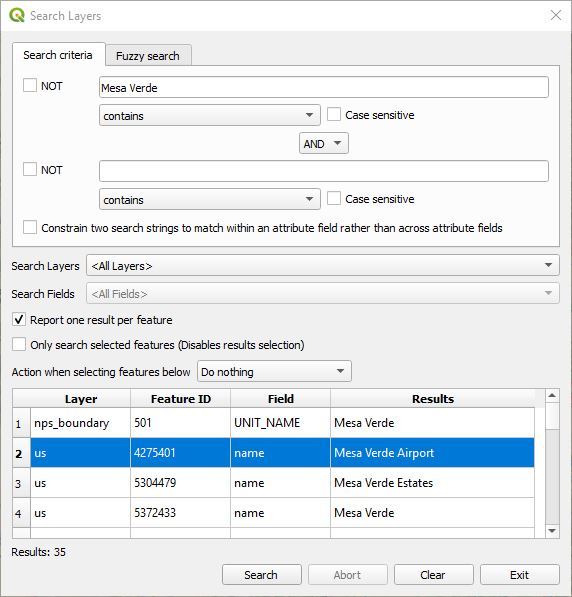
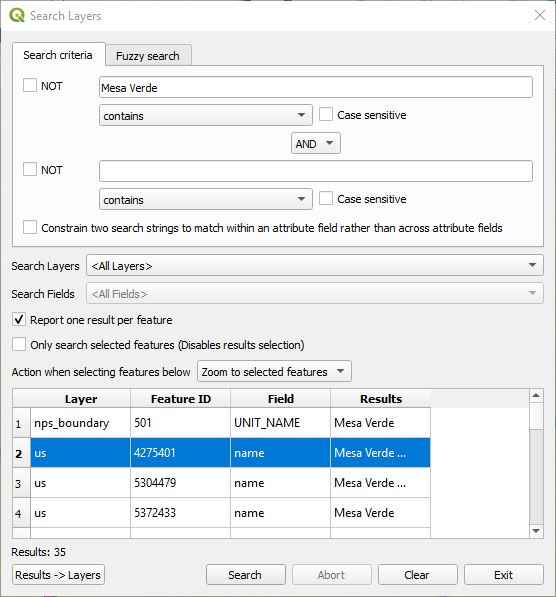
Add export button for search results

diff --git a/index.html b/index.html
@@ -54,6 +54,7 @@ code {
 <p>It is possible that a search string could match the contents in one or more attribute fields. By checking <strong>Report one result per feature</strong>, only the first match per feature will be reported.</p>
 <p>When two search strings are used checking <strong>Constrain two search strings to match within an attribute field rather than across attribute fields</strong> will constrain the search criteria to match within an attribute field; otherwise, one string may match one attribute field and the other string may match another attribute field. The results are either <strong>AND</strong>ed or <strong>OR</strong>ed together. Here is an axample of a two string search.</p>
 <p>If <strong>Only search selected features</strong> is checked, the features that are selected in QGIS will be the only ones searched. This is one way to limit a search to a particular area. Note that with this checked, the normal interaction of clicking on a found feature in the list will not select the feature for obvious reasons; however, the zoom or pan to actions will still apply.</p>
+<p>If search results are found, then the <strong>"Results -&gt; Layers"</strong> button will be enabled. Clicking on this button will export all the found results into new virtual layers. It is advised to install the <strong><em>Memory Saver Plugin</em></strong> to prevent these layers from disappearing after closing the project.</p>
 <p><img alt="Search Layers Dialog" src="doc/layersearch2.jpg" /></p>
 <p>Click  the <strong>Search</strong> button to begin the search. In the case of a large data set, clicking on <strong>Abort</strong> will halt the process. Note that the plugin stops after finding 1500 matches.</p>
 <p>When matches are found and clicked on the feature(s) will be highlighted. You can you Shift-&gt;Click to highlight a range of features, Ctrl-&gt;Click to toggle whether a feature is highlighted or not. The drop down menu <strong>Action when selecting features below</strong> controls one of the following motion actions. </p>

diff --git a/searchDialog.py b/searchDialog.py
@@ -1,11 +1,12 @@
 import os
 import re
+import time
 
 from qgis.PyQt.uic import loadUiType
 from qgis.PyQt.QtWidgets import QDialog, QAbstractItemView, QTableWidget, QTableWidgetItem
 from qgis.PyQt.QtCore import Qt, QThread
 
-from qgis.core import QgsVectorLayer, Qgis, QgsProject, QgsMapLayer
+from qgis.core import QgsVectorLayer, Qgis, QgsProject, QgsWkbTypes, QgsMapLayer, QgsFields
 from .searchWorker import Worker
 from .fuzzyWorker import FuzzyWorker
 
@@ -29,6 +30,7 @@ class LayerSearchDialog(QDialog, FORM_CLASS):
         self.stopButton.clicked.connect(self.killWorker)
         self.searchButton.clicked.connect(self.runSearch)
         self.clearButton.clicked.connect(self.clearResults)
+        self.results2LayersButton.clicked.connect(self.exportResults)
         self.layerListComboBox.activated.connect(self.layerSelected)
         self.searchFieldComboBox.addItems(['<All Fields>'])
         self.maxResults = 1500
@@ -38,7 +40,11 @@ class LayerSearchDialog(QDialog, FORM_CLASS):
         self.resultsTable.setHorizontalHeaderLabels(['Layer','Feature ID','Field','Search Results'])
         self.resultsTable.setSelectionBehavior(QAbstractItemView.SelectRows)
         self.resultsTable.itemSelectionChanged.connect(self.select_feature)
+        self.results = []
+        self.ignore_clear = False
         self.worker = None
+        self.time_start = 0
+        self.last_search_str = ''
 
     def closeDialog(self):
         '''Close the dialog box when the Close button is pushed'''
@@ -49,7 +55,7 @@ class LayerSearchDialog(QDialog, FORM_CLASS):
         It forces the dialog to reload.'''
         # Stop any existing search
         self.killWorker()
-        if self.isVisible():
+        if self.isVisible() or len(self.results) != 0:
             self.populateLayerListComboBox()
             self.clearResults()
 
@@ -178,6 +184,7 @@ class LayerSearchDialog(QDialog, FORM_CLASS):
         self.stopButton.setEnabled(True)
         self.doneButton.setEnabled(False)
         self.clearButton.setEnabled(False)
+        self.results2LayersButton.setEnabled(False)
         self.resultsLabel.setText('')
         infield = self.searchFieldComboBox.currentIndex() >= 1
         if infield is True:
@@ -187,6 +194,7 @@ class LayerSearchDialog(QDialog, FORM_CLASS):
         
         # Because this could take a lot of time, set up a separate thread
         # for a worker function to do the searching.
+        self.time_start = time.perf_counter()
         thread = QThread()
         if selected_tab == 0:
             # Get parameters for regular search
@@ -201,6 +209,7 @@ class LayerSearchDialog(QDialog, FORM_CLASS):
             
             try:
                 sstr = self.findStringEdit.text()
+                self.last_search_str = sstr
                 sstr2 = self.findString2Edit.text()
             except:
                 self.showErrorMessage('Invalid Search String')
@@ -250,17 +259,22 @@ class LayerSearchDialog(QDialog, FORM_CLASS):
         self.thread.wait()
         self.thread.deleteLater()
         self.worker = None
-        self.resultsLabel.setText('Results: '+str(self.found))
+        total_time = time.perf_counter() - self.time_start
+        self.resultsLabel.setText('Results: {} in {:.1f}s'.format(self.found, total_time))
 
         self.vlayers = []
         self.searchButton.setEnabled(True)
         self.clearButton.setEnabled(True)
         self.stopButton.setEnabled(False)
         self.doneButton.setEnabled(True)
+        if len(self.results):
+            self.results2LayersButton.setEnabled(True)
+        else:
+            self.results2LayersButton.setEnabled(False)
     
     def workerError(self, exception_string):
         '''An error occurred so display it.'''
-        #self.showErrorMessage(exception_string)
+        # self.showErrorMessage(exception_string)
         print(exception_string)
     
     def killWorker(self):
@@ -271,11 +285,15 @@ class LayerSearchDialog(QDialog, FORM_CLASS):
         
     def clearResults(self):
         '''Clear all the search results.'''
+        if self.ignore_clear:
+            return
         self.noSelection = True
         self.found = 0
         self.results = []
+        self.layer_set = set()
         self.resultsTable.setRowCount(0)        
         self.noSelection = False
+        self.results2LayersButton.setEnabled(False)
     
     def addFoundItem(self, layer, feature, attrname1, results1, attrname2, results2):
         '''We found an item so add it to the found list.'''
@@ -283,6 +301,7 @@ class LayerSearchDialog(QDialog, FORM_CLASS):
         self.resultsTable.setSortingEnabled(False)
         self.resultsTable.insertRow(self.found)
         self.results.append([layer, feature])
+        self.layer_set.add(layer)
         # Save the search found position in the first element of the table. This way
         # we can allow the user to sort the table, but be able to know which entry it is.
         item = QTableWidgetItem(layer.name())
@@ -300,7 +319,44 @@ class LayerSearchDialog(QDialog, FORM_CLASS):
         self.found += 1   
         # Restore sorting
         self.resultsTable.setSortingEnabled(True)
+    
+    def exportResults(self):
+        # No found results, no export
+        if len(self.results) == 0:
+            return
+        self.resultsTable.setDisabled(True)
+        self.ignore_clear = True
+        layer_map = self.createExportedLayers()
+        for layer, feature in self.results:
+            # print('{} {}'.format(layer, feature))
+            layer_map[layer].dataProvider().addFeatures([feature])
             
+        self.ignore_clear = True
+        for layer in layer_map:
+            new_layer = layer_map[layer]
+            new_layer.updateExtents()
+            QgsProject.instance().addMapLayer(new_layer)
+        self.ignore_clear = False
+        self.resultsTable.setDisabled(False)
+    
+    def createExportedLayers(self):
+        if len(self.last_search_str) > 20:
+            sname = self.last_search_str[0:17]+'...'
+        else:
+            sname = self.last_search_str
+        layer_mapping = {}
+        for layer in self.layer_set:
+            new_name = layer.name() + ' ('+sname+')'
+            wkb_type = layer.wkbType()
+            layer_crs = layer.sourceCrs()
+            fields = QgsFields(layer.fields())
+            new_layer = QgsVectorLayer("{}?crs={}".format(QgsWkbTypes.displayString(wkb_type), layer_crs.authid()), new_name, "memory")
+            dp = new_layer.dataProvider()
+            dp.addAttributes(fields)
+            new_layer.updateFields()
+            layer_mapping[layer] = new_layer
+        return(layer_mapping)
+                
     def showErrorMessage(self, message):
         '''Display an error message.'''
         self.iface.messageBar().pushMessage("", message, level=Qgis.Warning, duration=2)

diff --git a/searchWorker.py b/searchWorker.py
@@ -69,9 +69,11 @@ class Worker(QObject):
         if self.search_selected:
             if layer.selectedFeatureCount() == 0:
                 return
-            iter = layer.getSelectedFeatures(QgsFeatureRequest().setFlags(QgsFeatureRequest.NoGeometry))
+            # iter = layer.getSelectedFeatures(QgsFeatureRequest().setFlags(QgsFeatureRequest.NoGeometry))
+            iter = layer.getSelectedFeatures()
         else:
-            iter = layer.getFeatures(QgsFeatureRequest().setFlags(QgsFeatureRequest.NoGeometry))
+            # iter = layer.getFeatures(QgsFeatureRequest().setFlags(QgsFeatureRequest.NoGeometry))
+            iter = layer.getFeatures()
         if self.case_sensitive:
             flags1 = re.UNICODE
         else:
@@ -248,7 +250,8 @@ class Worker(QObject):
             else:
                 fstring = '{} OR {}'.format(fstring, fstring2)
 
-        request = QgsFeatureRequest().setFlags(QgsFeatureRequest.NoGeometry)
+        # request = QgsFeatureRequest().setFlags(QgsFeatureRequest.NoGeometry)
+        request = QgsFeatureRequest()
         request.setSubsetOfAttributes([selectedField], layer.fields())
         request.setFilterExpression(fstring)
         if self.search_selected:

diff --git a/readme.md b/readme.md
@@ -27,6 +27,8 @@ When two search strings are used checking **Constrain two search strings to matc
 
 If **Only search selected features** is checked, the features that are selected in QGIS will be the only ones searched. This is one way to limit a search to a particular area. Note that with this checked, the normal interaction of clicking on a found feature in the list will not select the feature for obvious reasons; however, the zoom or pan to actions will still apply.
 
+If search results are found, then the **"Results -> Layers"** button will be enabled. Clicking on this button will export all the found results into new virtual layers. It is advised to install the ***Memory Saver Plugin*** to prevent these layers from disappearing after closing the project.
+
 ![Search Layers Dialog](doc/layersearch2.jpg)
 
 Click  the **Search** button to begin the search. In the case of a large data set, clicking on **Abort** will halt the process. Note that the plugin stops after finding 1500 matches.
